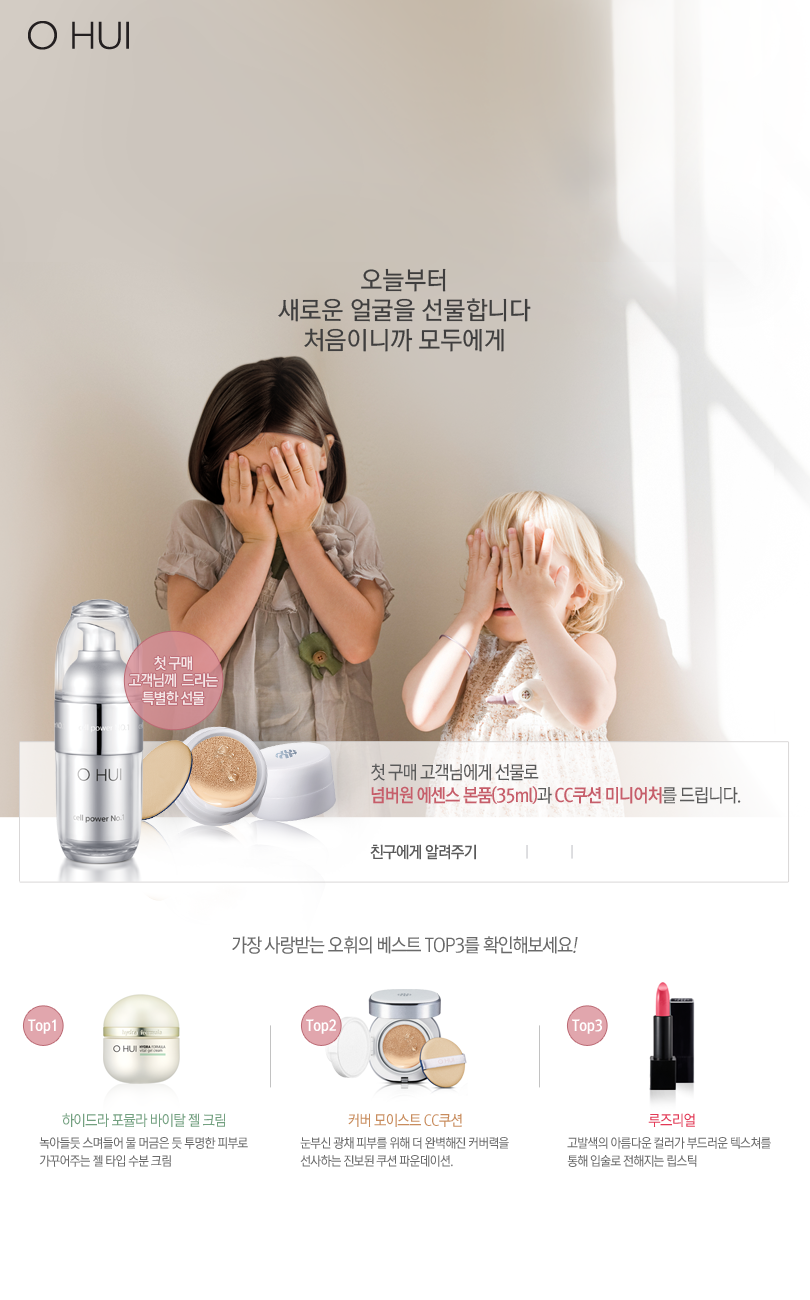
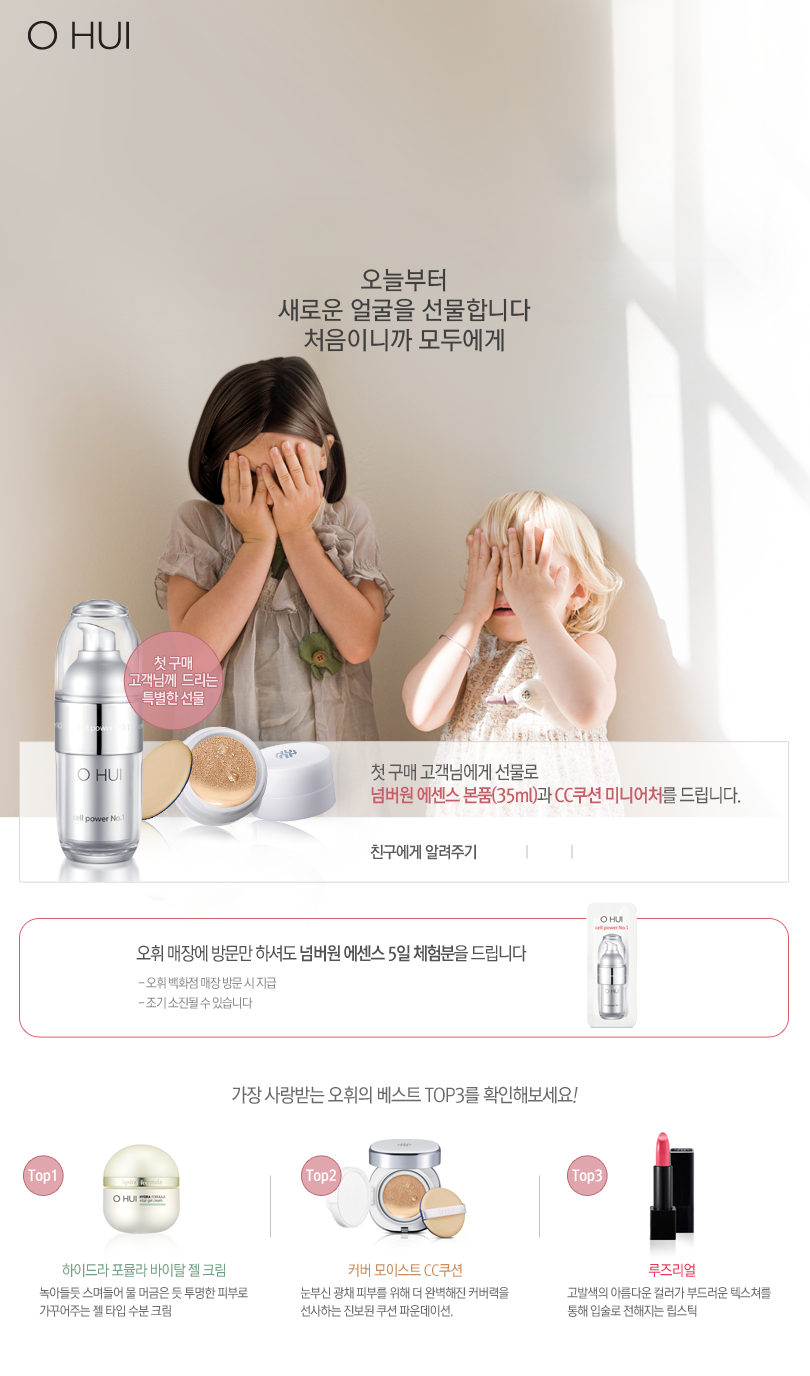
이미지수

diff --git a/app/assets/stylesheets/pc/style.css.scss b/app/assets/stylesheets/pc/style.css.scss
@@ -112,7 +112,7 @@ img{
 }
 
 .product_new{
-	height:317px;
+	height:457px;
 }
 
 
